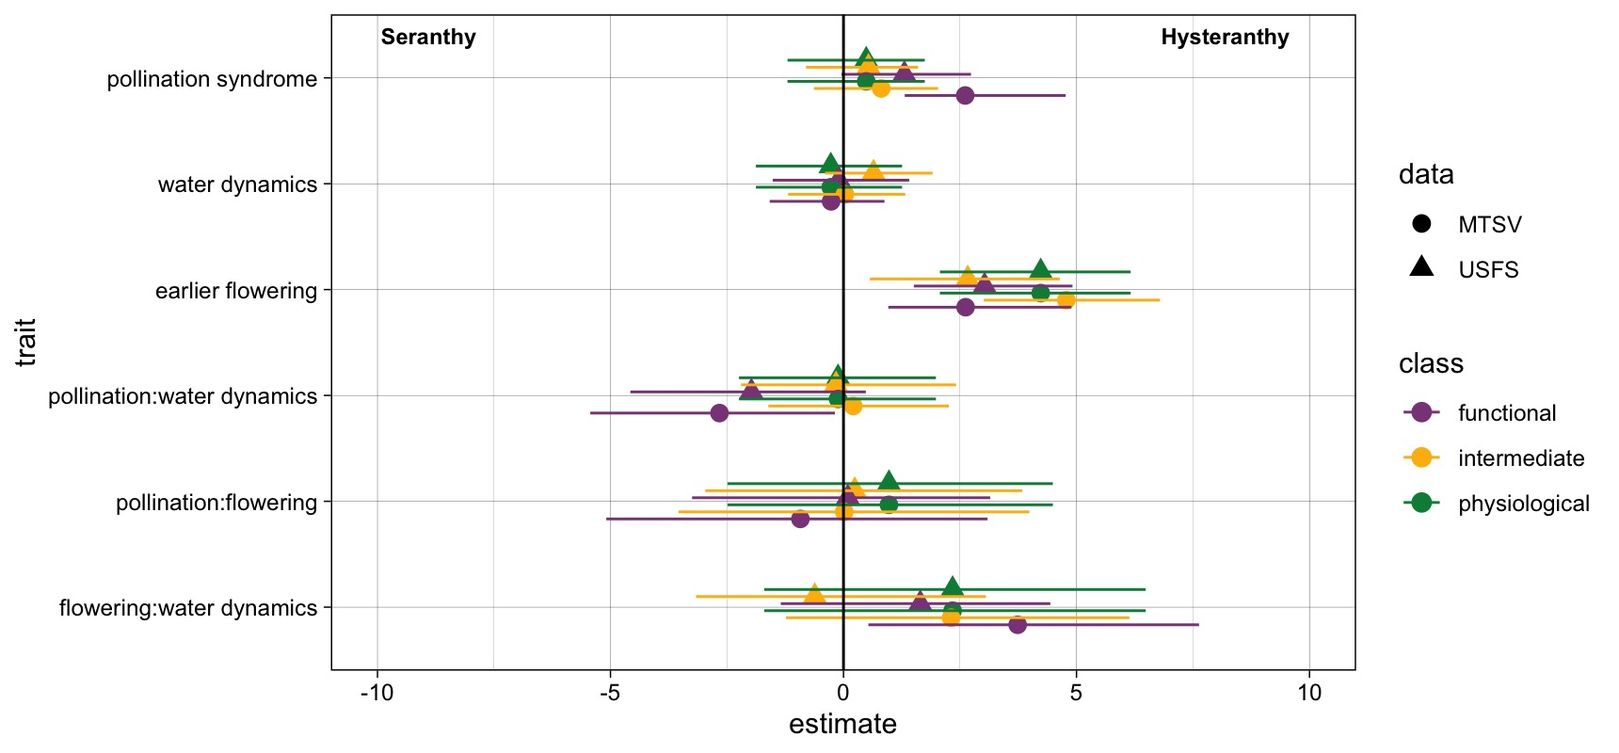
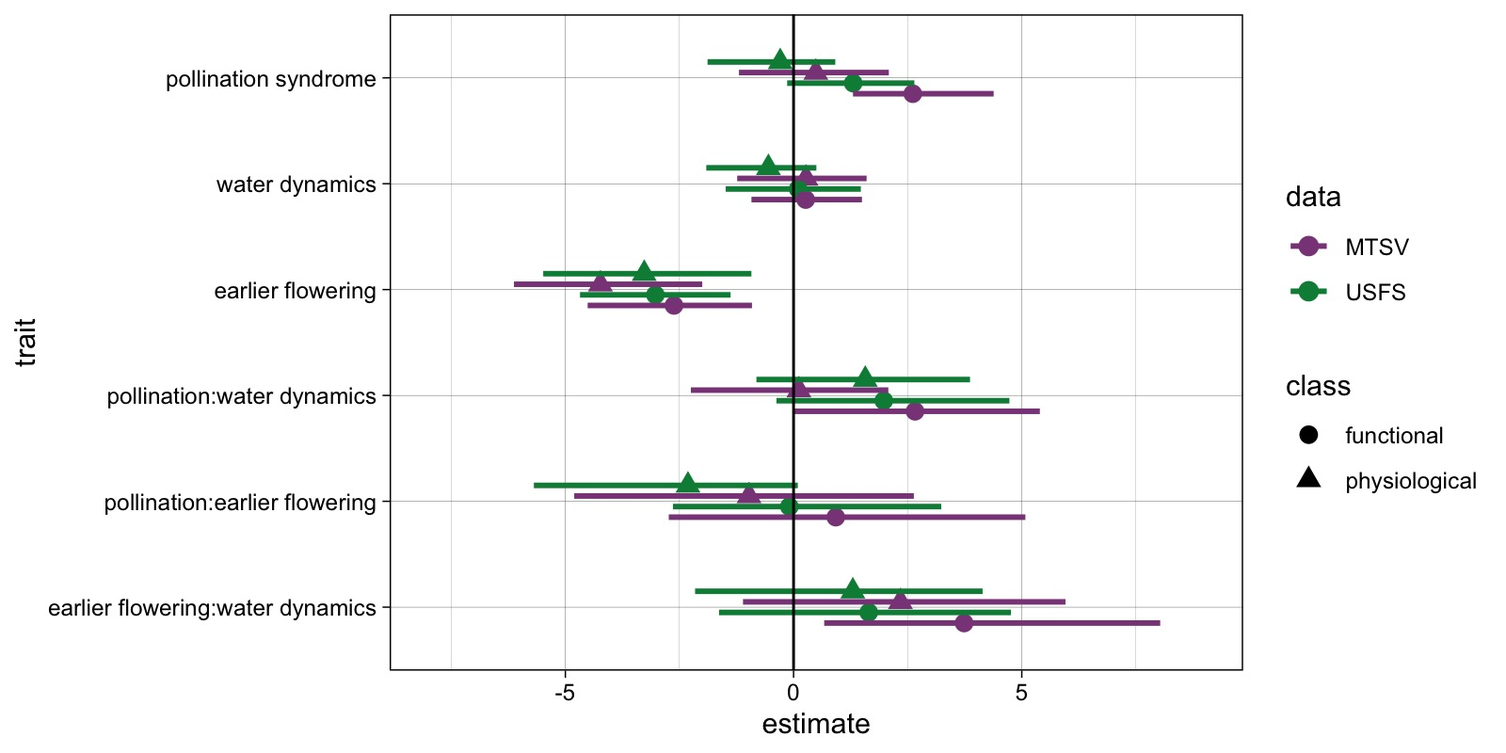
draft completed, must check

diff --git a/sub_projs/writing/shortest_reconciling.tex b/sub_projs/writing/shortest_reconciling.tex
@@ -1,0 +1,140 @@
+\documentclass{article}
+\usepackage[top=1.00in, bottom=1.0in, left=1.00in, right=1.00in]{geometry}
+\renewcommand{\baselinestretch}{1.1}
+\usepackage{graphicx}
+\usepackage{natbib}
+\usepackage{amsmath}
+\bibliographystyle{..//refs/styles/besjournals.bst}
+\def\labelitemi{--}
+\parindent=24pt
+\usepackage{lineno}
+\linenumbers
+\usepackage{xr-hyper}
+\externaldocument{write suppliment here}
+
+\begin{document}
+%currently 3230 words
+\section*{Introduction}
+Phenology, the timing of seasonal life cycle events, allows organisms to synchronize life-history transitions with optimum environmental conditions \citep{Forrest2010}, and is a critical component of ecosystem structure and function \citep{Cleland2007,Piao2007}. Recent work in woody plant phenology has shown that it is not only individual phenological stages that affect these processes, but also the relationships between them \citep{Ettinger2018}.\\
+
+ One phenological relationship that has long received scientific interest \citep[see][]{Robertson1895}, and recently, increased attention in the literature \citep{Savage2019, Gougherty2018} is the flower-leaf phenological sequence (FLS) of deciduous woody plants. In a typical model of plant life-history, vegetative growth precedes reproduction. However, for many species in the forests of Eastern North America, it is not the green tips of new shoots that mark the commencement of the growing season, but the subtle reds and yellows of their flowers. This flowering-first FLS is common in these regions, and its prevalence suggests that this FLS has adaptive significance \citep{Rathcke_1985}.\\ 
+
+ Understanding this phenological pattern is necessary and timely because anthropogenic climate change is altering FLSs (Fig. \ref{fig:climchange}). Long-term observations show the number of days between flowering and leafout is increasing as a result of climate change, but the rate of change differs up to five-fold among species (Fig. \ref{fig:climchange}).  If FLSs are indeed an important component of woody plant fitness, this inter-specific variation will exacerbate fitness differences between species, influencing which species will persist under altered climate conditions.\\
+
+ These long-term data also highlight high ---within species--- variability in FLSs (S1). Despite recent advances in understanding the physiology and evolution of FLS \citep{Gougherty2018,Savage2019}, most research has ignored this variability---potentially stymieing efforts to predict how FLS patterns will respond to climate change. While some authors present general correlations between flowering and leafing phenology \citep{Lechowicz_1995, Ettinger2018}, fine-scale FLS variability has never been evaluated. We suggest that characterizing intra-specific variation in FLS will not only improve our ability to predict how FLS patterns will change in the future, but also allow for a more biologically relevant evaluation of the current FLS hypotheses, revealing avenues for future, direct hypothesis testing.\\
+
+ Here we 1) Review the hypotheses of woody plant FLSs and their respective predictions, 2) compare the biological basis of the current FLS framework to our proposed framework based on intra-specific, quantitiatve measures of FLS, 3) Test our framework with a detailed case study of long-term phenology records from Harvard Forest, in Petersham, MA 4) make recommendations to improve future study of FLSs.
+\section*{FLS hypotheses and their predictions}
+\section*{Hypotheses of FLS}
+\subsubsection*{ Wind pollination}
+\indent\indent The most prevalent FLS hypothesis suggests that hysteranthy is an adaptation for wind-pollination, with leafless flowering allowing for more efficient pollen transfer \citep{Whitehead1969, Spurr1980,Friedman2009}. The primary evidence for this hypothesis comes from pollen diffusion studies \citep[e.g., particle movement through closed and open canopies][]{Niklas1985,Nathan2005, Milleron2012} and suggests pollen movement is indeed encoubered by the maturing leaves. Given this hypothesis, we would expect a strong association between FLS and pollination syndrome, with wind-pollination associated with flowering-first.
+
+\subsubsection*{Water dynamics}
+\indent\indent Another hypothesis suggests that flowering before leaf development is an adaptation to reduce water stress from maintaining floral hydration with transpiring leaves \citep{Franklin2016}. We are unaware of any studies that have mechanistically evaluated the water dynamics hypothesis, though observations of flowering in the dry tropics where this FLS pattern is also common suggest that the timing of flowering in these taxa is associated with a water status recovery due to leaf drop \citep{Borchert1983,Reich1984}. Given this hypothesis, we would expect a strong relationship between FLS and metrics of drought tolerance, with drought tolerance associated with a flowering-first FLS.  
+
+\subsubsection*{Early flowering}
+\indent\indent A third possibility is that the flowering-first FLS is a physiological byproduct of selection for early flowering \citep{Primack1987}.Here, there is no advantage to a species flowering before or after leafing, as long as the absolute flowering time is the same. %We are aware of no direct tests that have tried and distinguish selection for hysteranthy from selection for early flowering, but 
+\citet{Primack1987} notes that flowering-first species tend to also have large seed mass and lack primary seed dormancy for germination, traits associated with early flowering in general. This raises the possibility that this FLS may simply be one component of a larger suite of early flowering traits. Recent work from \citet{Savage2019} has demonstrated that spring flower phenology is less constrained by prior phenological events than leaf phenology, which would allow selection to drive flowering into the early season, producing the the flowering-first FLS. Given this hypothesis, we would expect a strong relationship between FLS and flowering time, with earlier flowering associated with flowering-first.
+\subsubsection*{Phylogenetics} 
+\indent\indent Finally, it is also possible that FLSs are highly conserved traits, and the preponderance of flowering-first in the temperate zone is a product of phylogenetic representation of the region rather than an adaptive aspect of the trait. In a recent analysis, \citet{Gougherty2018} found strong phylogenetic clustering in FLS variation. Given this hypothesis, we would expect to see only weak relationships between FLS and the above mentioned traits and a strong phylogenetic signal.\\
+
+Despite decades of inquiry, only limited progress has been made towards any consensus for these hypotheses. Many studies only test a single hypothesis, making comparison between them difficult. In contrast, studies testing multiple hypotheses have generally found support for multiple hypotheses \citep[see][]{Bolmgren2003,Gougherty2018}. We argue that this lack of resolution stems from the fact that the current way that FLS patterns are conceptualized is not compatable with the biological processes underlying FLS variation that research aims to test.
+
+\section*{The current FLS framework and its limitations}
+Under the current framework, FLSs are described qualitatively, and defined at the species level. This inherently introduces observer and interpreter bias into FLS data, and fails to capture underlying biology that structures FLS. Below, we highlight three main spurious assumptions of the current FLS framework and suggest more appropriate alternatives for describing FLS patterns.
+\subsection*{Assumption I: FLS patterns are simple to describe and biologically meaningful:}
+In the current framework, there are three main FLS categories; flowers before leaves (hysteranthy, proteranthy, precocious flowering) flowers with leaves (synanthy) and flowers after leaves (seranthy) \citep{Lamont2011, Heinig1899}. Some data sources \citep[e.g.][]{Burns1990,Barnes2004} include additional categories ``flowers before/with leaves' and ``flowers with/after leaves" but it is unclear whether these categories describe intermediate FLS patterns or FLS variability in these species. While these categories are conceptually reasonable, applying them to real phenological sequences is not always so straight forward.
+\subsubsection*{The biological reality:}
+ Both reproductive and vegetative phenological sequences consist of multiple sub-stages, and this introduces significant ambiguity into how we interpret qualitative FLS descriptions. Consider a species with the following FLS:\\
+\begin{center}
+\textbf{flower budburst}\rightarrow \textbf{leaf budburst}\rightarrow \textbf{first flowers open} \rightarrow \textbf{leafout} \rightarrow \textbf{peak flowering} \rightarrow \textbf{end of leaf expansion}\\
+\end{center}
+\noindent Observers could justifiably classify this species as: 1) Hysteranthous because flower budburst proceeds leaf budburst, 2) Synanthous because flowers open during the budburst-leafout interphase 3) Seranthous because peak flowering occurs after leafout. This problem extends beyond this simple example to real datasets, \citep[e.g.][]{OKeefe2015} where the same ambiguities exist (Fig. S2). Not surprisingly then, different sources (e.g., floras) may classify the same species differently. We compared species-level FLS descriptions in two of the most comprehensive records of FLS, Michigan Trees and its companion volume Michigan Shrubs and Vines (MTSV) \citep{Barnes2004,Barnes2016} with The USFS Silvics Manual Volume II \citep{Burns1990}. Of these 49 overlapping species, 30\% were classified differently. Such different classifications could reflect interesting temporal or geographic variability in FLSs, but---given current definitions---they could equally be an artifact of observer decision-making.\\
+
+Given that the most complete FLS datasets currently come from regional guide books and floras, FLS categories were likely determined to aid with plant identification rather than to detail biological processes. Such categorization can often introduce biases in analyses \citep{}, and in this case, the FLS hypotheses themselves may suggest different boundaries. For example, the wind-pollination hypothesis hinges on the fact that leaves create a substantial physical disruption to pollen transfer, a premise that we would not necessarily expect to be true for the early stages of leaf expansion when tiny leaf primordia would have little impact on environmental structure. Rather, trees that flower during the early stages of leaf expansion should gain similar advantage to those who complete their flowering before any leaf activity. Alternatively, because transpiration intensifies as soon as leaves begin to expand \citep{Breda1996,Wang2018}, there should a cost to maintaining floral structures during any stage of leaf activity, and only species whose flowering occurs before any leaf expansion would gain a drought advantage. Given the biological processes underlying these hypotheses, we would expect statistical relationships between FLS and traits to fluctuate depending on where catagory boundiaries are defined. Important association may be missed entirely if, as in the case of the current categories, the imposed boundary does not match the biological process.
+
+\subsection*{Assumption II: There are no meaningful differences within FLS categories}
+ Consider two temperate taxa depicted in figure (Fig. \ref{fig:vizzy}a). According to the current framework, both would be classified as hysteranthous despite substantial differences in timing between reproductive and vegetative events.
+\subsubsection*{The biological reality:}
+These species are classified the same simply based on sequence, but this ignores any other measure of time. Biology, however, has continual shown that the length of time also matters\citep{Inouye2019}. This assumption obscures substantial inter-specific variation that could in reality be the fingerprint of selection of FLS. This inter-specific variation should be leveraged for more biologically reasonable hypothesis testing.
+
+\subsection*{Assumption III: FLS variation is a species level trait}
+In the current framework, FLS categories are assigned at the species level.
+\subsubsection*{The biological reality:}
+ We investigated individual FLS variation at Harvard Forest \citep{OKeefe2015}, and found that the time between flowering and leaf activity varied by as much as several weeks within species between indiviudals and years. We also found similar levels of population level FLS variation accross Europe \citep{PEP725}. This variability is lost completely in the classic framework of categorization. For example, in the synanthous\textit{Quercus rubra}, there are some years in which flower budburst is more than a week before leaf budburst, and other years in which leaf buds burst almost three weeks prior to floral budburst (Fig. \ref{fig: vizzy}b). Given the variability of FLSs at the individual level, it is clear that considering FLS variability at only higher taxonomic levels obscures important realities about the biology of this phenological trait that may be instrumental for better tests of the FLS hypotheses.\\
+
+Under the current framework, any statistical relationship between FLS and other traits is biased by the subjectivity of the original observer, the modeler, and the possibility that the associations being tested do not reflect the biology processes that shape FLS. We compared traits associated with hysteranthy in the  USFS and MTSV datasets. We applied two alternative FLS catagorizations; physiological hysteranthy, which allowed for no overlap between floral and leaf phenophases, and functional hysteranthy, which allowed for a degree of overlap. We found the strength of associations between FLS and predictors is highly sensitive to how FLSs were defined \ref(Fig:{fig: muplots} a). With the current framework, any similar analyses would be subject to these biases, and inferences from them are tenuous. \\
+
+\section*{A new framework for FLS}
+The shortcomings of the current FLS framework can be easily rectified with a shift from categorical, species-level descriptions of FLS to continuous individual-level quantification. The primary reason for this shift is logical; if researchers seek to understand the \emph{biological} processes driving FLS patterns, we will be the most successful if we use the most \emph{biologically} relevant measures. Making this change should improve and clarify inferences from traits association models like the ones presented above. Additionally a qunatitive, intra-specific framework offers secondary advantages and novel avenues for fine-tuning FLS hypotheses.\\
+
+Quantitative measures of phenology \citep[e.g. the BBCH scale,][]{Finn2007}, standardize data across time and space, observer, and analyst. Adopting such measurements in the study of phenological sequences would allow for FLS patterns to be compared across larger temporal, geographic and taxonomic scales, giving researchers more power to accurately address questions about FLS variation.\\
+ 
+One of the challenges of inter-specific comparisons that can be mitigated by an intra-specific approach is that species evolve a suite of traits for any function, and unmeasured traits might bias our results \citep{Davies2019}. For example, wind-pollinated species could compensate for pollen intercepted by a seranthous FLS by over-producing pollen or through self-pollination. To truly understand FLS at the species level, one would have to compare species across an unfeasible, N-dimensional trait space. Focusing on FLS variation within species holds most other traits relatively equal, avoiding this problem of tradeoffs with latent, unmeasured traits. 
+\\
+
+%One more par
+
+\section*{Testing the new framework}
+To date, FLS variability below the species-level have not been addressed. To address this gap, we supplement our literature review with several analyses. We tested associations between hypothesis-releveant traits and FLS using the phenological records from Harvard Forest with both the classic FLS catagories and our new proposed framework. The results from the classic, categorical version of our Harvard Forest model(\ref{fig:muplots}b) reflect the USFS model results (Fig. \ref{fig:muplots}a). We found strongest support for the early flowering hypothesis, good support for the wind pollination hypothesis and poor support for the water dynamics hypothesis. We detected no substantial interactions between predictors and found X phylogenetic structure to FLS. However, the results form our quantitative version of the model highlight key biological insights obscured by categorization. The quantitative model detects a signal for the water dynamics hypothesis, implying that while drought tolerance may not play a major role in determining whether or not flowering happens before leaf expansion, it may contribute to determining the time between these phenophases.\\
+
+Most significantly, in this model we identify strong interactions between predictors. While early flowering is associated with hysteranthy in all species, this effect is even more pronounced in wind pollinated-taxa. Average predictive comparisons from this model demonstrate that water dynamics drive FLS patterns of biotically-pollinated taxa but not wind-pollinated taxa (\ref{fig:apcs}a). These systematic differences between pollination sydromes are informative. Many of the biotically-pollinated species of the temperature forests trace their biogeographic origins to the tropical regions where the water dynamics hypothesis originated \citep{Daubenmire1972}. In particular, we see many of the biotically-pollinated, hysteranthous species in the temperate zone are geographic outlyers from largely tropical clades (e.g. \textit(Fabaceae),\textit(Lauraceae),\textit(Annonaceae). It may be that for these taxa, hysteranthy developed in radically different selection environment and bears no functional similarity to hysteranthous flowering in wind-pollinated species that prodominately evolved in the temperate zone. These facts together suggest a more complex story of convergent evolution, biogeographic history, and community assembly in hysteranthous flowering than can be encompased any single FLS hypothesis.\\
+
+We leveraged the inter-annual FLS variation at Harvard Forest to investigate other signals of the water dynamics hypothesis that may be have been missed in larger inter-specific inquiries. As predicted by the hypothesis, we found a negative association between FLS and annual precipitation at Harvard Forest, however, it would take a change of apporximately 100 centimeters in annual precipitation to drive a day differnce in FLS. This suggests that even if water dynamics shaped FLS in some temperate taxa on the evolutionary time-scale, it does not appear to be a major driver of FLS variation on an ecological one. Given this, it may be that hysteranthy in biotically-pollinated species in the temperate zone is maintained because there is no strong selection against it, or it has come to serve a different fuction. Hysteranthous flowering may expand the temporal niches available to species, partitioning inter-specific competition for pollinators, or it may be a useful tool for attracting them. For example, there is some evidence that hysteranthous species invest less in floral resources than seranthous sister taxa \citep{Gunatilleke1984}, suggesting that perhaps their flowers are easier to locate.
+
+Our findings suggest that the fact that previous studies tend to find support for multiple hypotheses is not simply a methodological artifact but rather a result consistant with the biolocial processes that shape FLS. Using available data, we have demonstrated the advantages of a new conceptual framework for the study of FLSs based on quantitative measures of individual variation in FLS patterns. Using these methods we have identified several biological nuances to advance our understanding of this phenological trait and provided a more comprehensive picture of where our understanding of this phenological trait is currently, and where it needs to go. Below we highlight three characteristics of FLS that we suggest, utilizing this new framework, should be incorporated into future research to improve our fundamental knowledge about this important life-history trait and better predict how alterations to FLSs will impact species in an era of global change.
+\section*{The Future of FLS:}
+\subsubsection*{Multiple hypotheses explain FLSs}
+
+\indent\indent Our results underscore other lines of evidence that show multiple hypotheses should be starting point for all future FLS research. While there is certainly value to broad taxonomic studies, and future large-scale analyses should continue, the consistent support for multiple hypotheses shows there are limits to the utility of these kinds of studies. We suggest that it is better to explore the evolutionary dynamics of hysteranthy with a more mechanistic approach, which may mean utilizing a more taxonomically-restricted focus. The significance of interaction terms in some of our models suggest that a promising option is to look within the hypotheses to address sub-grouping of taxa in which overlap between hypotheses could be controlled. For example, we know that wind-pollination efficiency is not driving hysteranthous flowering among biotically-pollinated taxa, so if we consider this group of species alone, we may be able to detect stronger signals from other traits that support other competing hypotheses. Incorporating a more explicit phylo-biogeographic approach would be instructive at this level; there are phylo-geographic commonalities between the few biotically-pollinated hysteranthous species in Eastern flora, we might better understand the function of FLS variation in these species by investigating FLS variation in their sister-taxa in their regions of origin.\\ 
+
+\subsubsection*{FLS and fitness}
+Even with focused work on sub-groupings of species, interspecific trait-association models can only can take us so far. As in most other areas of plant biology examining traits, research is hampered by the difficulty of knowing which are the right traits \citep{}. For example, we used minimum precipitation across a species' range, one of the only available quantitative drought metrics at the scale of large inter-specific models, to represent the water dynamics hypothesis but we have no way of knowing for certain that this is really a good proxy for drought tolerance. \\
+
+While trait associations point to past selection, fitness is the driver of trait evolution, and at the core of each FLS hypothesis is a fitness prediction. By utilizing intra-specific comparisons and continuous measurements of FLS, we can move beyond trait associations and test the fitness consequences of FLS variation. \\
+\indent Variability in hysteranthy should lead to variability into fitness outcome at the intra-specific level. For example, the wind pollination hypothesis predicts that with all else equal, years with increased time between flowering and leafing should correlate with more pollination success. The water dynamics hypothesis suggests hysteranthous populations with a consistently larger time between flowering and leafing should better tolerate drought. These predictions could be directly assessed through well-designed experiments and field studies.\\
+
+\subsubsection*{FLS and physiology} 
+Decades of research suggests that both floral and vegetative phenological events are cued by temperature and photoperiod \citep{Forrest2010, Flynn2018}, suggesting they are under shared genetic and physiological control. But to yield the FLS variation seen in nature, there must be systematic differences in reproductive and vegetative phenological responses to the environment. Researchers can use intra-specific variation in FLS to identify which cues dominate each phenological process and better understand the underlying genetic and physiological constraints that structure phenological sequences.\\
+
+\emph{Conclusions:} Our proposed framework provides a path to understand the drivers of FLSs in woody plants. Through examining FLS variation in more targeted taxonomic assemblages and using quantitative data with mechanistic metrics, we can refine the existing FLS hypotheses and better comprehend the causes and consequences of FLS variation at multiple taxonomic scales. This is an essential step towards a more complete understanding of the fundamental biology of temperate woody plants, and for predicting the fate of these species as global climate continues to change.
+
+
+\section*{Figures}
+\begin{figure}[ht]
+    \centering
+ \includegraphics[width=\textwidth]{..//PEP725/FLS_climate_change.jpeg} 
+    \caption{\textbf{FLSs across Europe for four tree species from 1960 to 2015 suggests climate change has generally increased the time between flowering and leafing}, but the direction and rate of change differs across species, which may exacerbate fitness differences within forest communities. To detect the effect of climate change on average FLS, we used models that allow for shifts in FLS after 1980. Lines represent the mean trend in FLS per species, and the highlighted regions indicate historic range of FLS variability (95\% credible intervals of the pre-1980 average) from the PEP725 database \citep{PEP725}.}
+    \label{fig:climchange}
+\end{figure}
+ \begin{figure}[ht]
+        \centering
+          \includegraphics[width=\textwidth]{..//HarvardForest/FLS_viz.jpeg}
+          \caption{\textbf{Categorical descriptions of FLS mask significant inter- and intra-specific variability.} }
+        \label{fig:vizzy}
+    \end{figure}
+
+  \begin{figure}[ht]
+    \centering
+    \includegraphics[width=\textwidth]{..//muplots.jpeg}
+    \caption{\textbf{Estimated effects of water dynamics (minimum precipitation across species range), pollination syndrome, and earlier flowering time on FLS patterns across three case studies.} We used phylogenetic adjustments and standardized units to make a basic comparison of datasets of different  definitions of of FLS and  data types (categorical and continuous).  }
+  \label{fig:muplots}
+    \end{figure}
+
+%\begin{figure}[ht]
+ %   \centering
+%    \includegraphics[width=\textwidth]{..//HarvardForest/HFmeans_expanded.jpeg}
+ %   \caption{\textbf{Average inter-specific FLS variation at Harvard Forest, MA from 1990-2015.} This community displays all major FLS patterns, but because of overlapping floral and vegetative sub-phases and interannual variability in phenology (lines indicate standard error for each phenophase mean), it is difficult to neatly assign all species to a FLS category. Other notable patterns relevant to the FLS hypotheses can be seen. 1) As predicted by the early flowering hypothesis, the earliest species to initiate spring phenology are hysteranthous. 2) As predicted by the pollination syndrome hypothesis, wind-pollinated species (indicated with a *) may vary in whether their flowers or vegetative buds break first, but all open their flowers before leaves expand to 75\%.}
+  %  \label{fig:HFmeans}
+%\end{figure}
+
+
+    
+
+ \begin{figure}[ht]
+        \centering
+          \includegraphics[width=\textwidth]{..//HarvardForest/apcs.jpeg}
+           \caption{\textbf{Average predictive comparisons suggest that water dynamics may be a driver of hysteranthy in biotically-pollinated but not in wind-pollinated taxa, suggesting future work on FLS must accommodate overlapping hypotheses.} For species flowering in mid-May (the 25 year community average) these systematic differences}
+        \label{fig:apcs}
+    \end{figure}
+\end{document}
